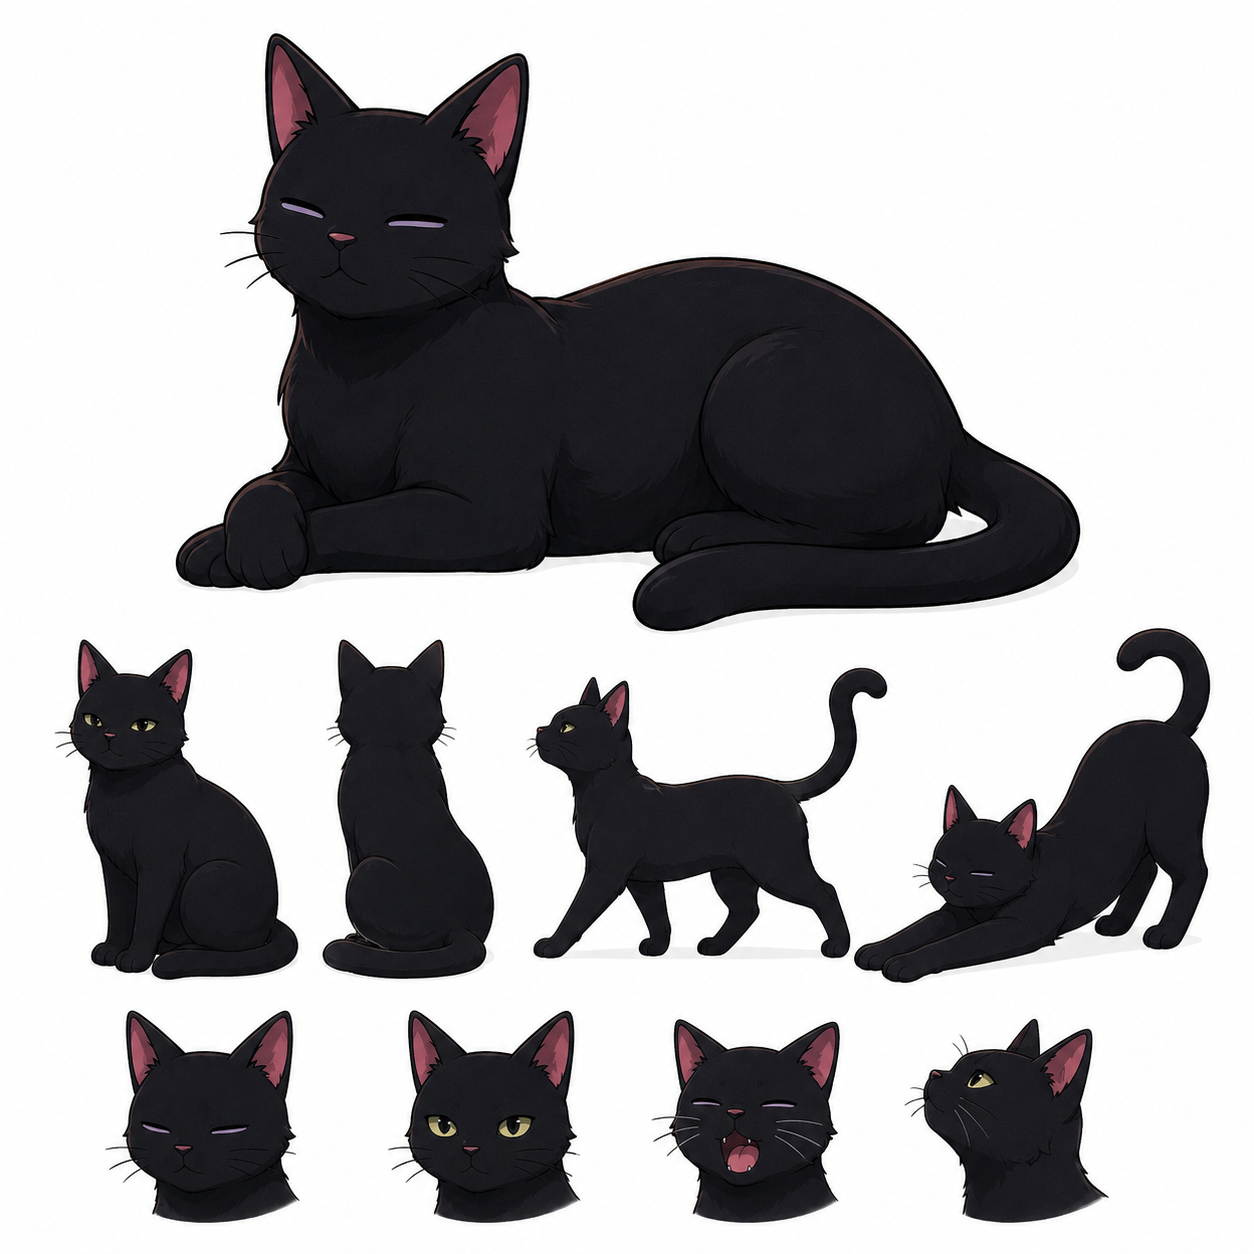
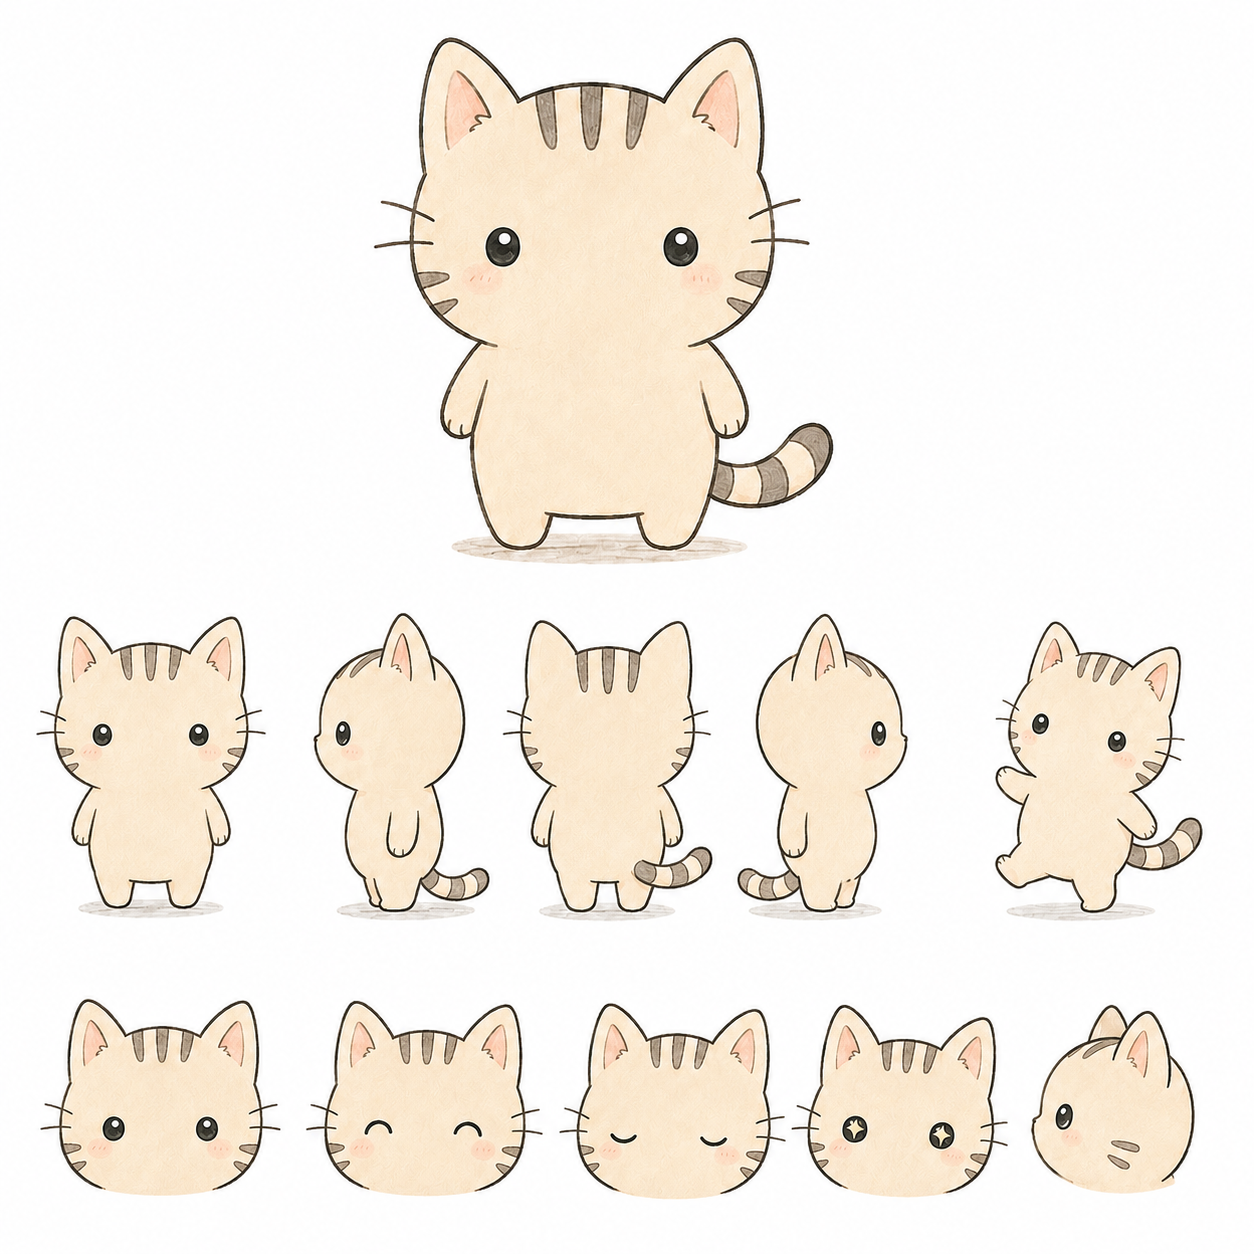
update mascot

diff --git a/assets/mascot_description.md b/assets/mascot_description.md
@@ -1,0 +1,4 @@
+this is not a regular cat, 
+this is a cartonized cat
+with short leg, short hand, and mouthless
+cannot walk like cat, walk 2 leg like human
